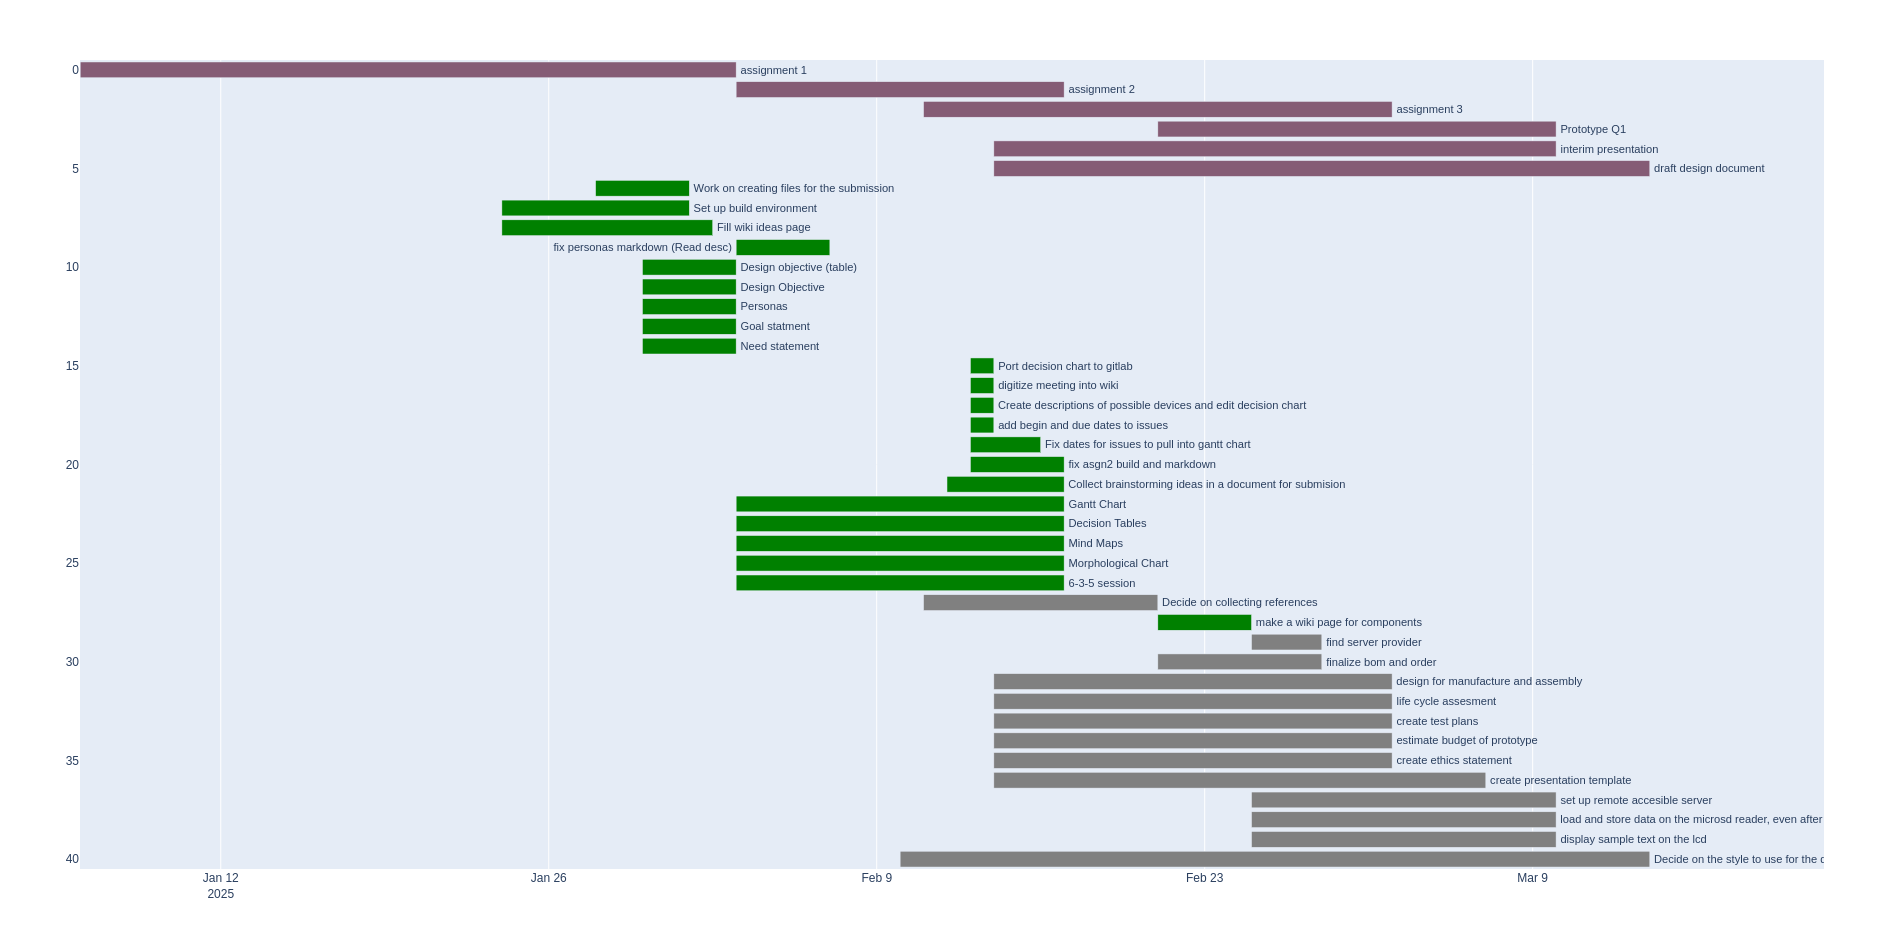
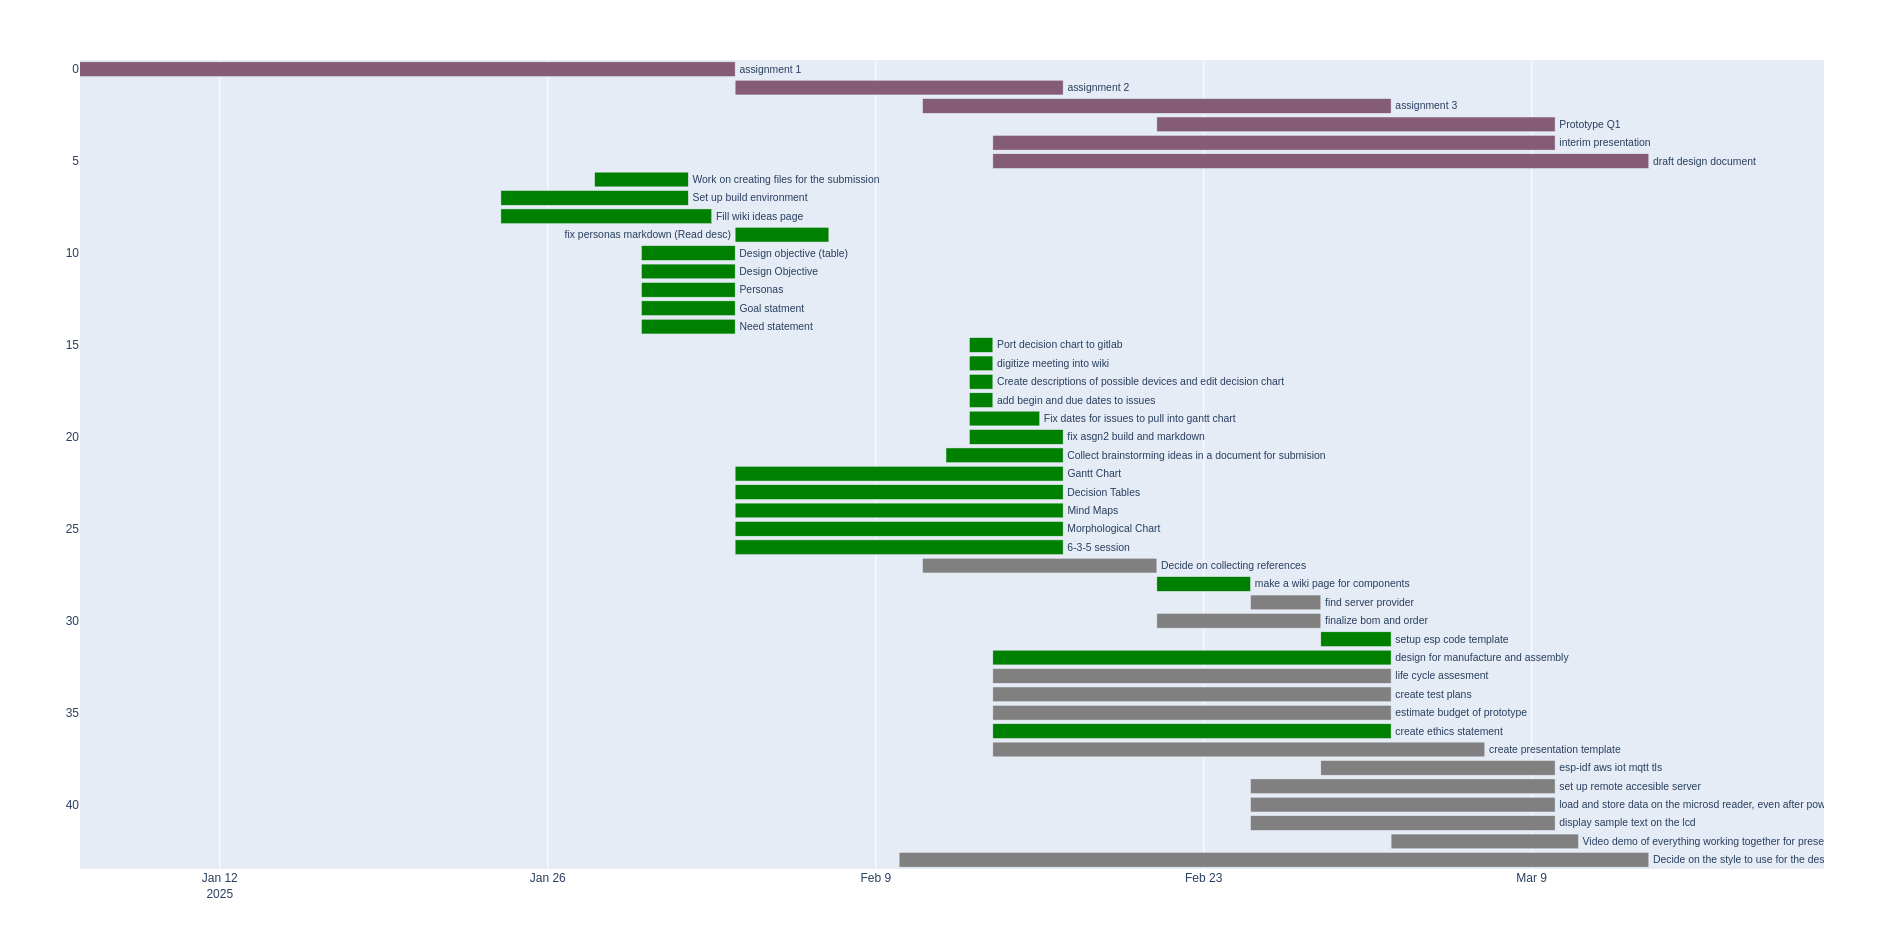
modified assignment 3 and budget

diff --git a/doc/common/prototype_budget.md b/doc/common/prototype_budget.md
@@ -1,3 +1,9 @@
+The parts for the protorype were obtained from Digikey and Amazon. 
+The cost for shipping form Amazon.com is assumed to be the prime member price.
+The total price comes out to be 
+42.66 (parts) + 6.99 (shipping) + 2.29 (tariff) + 4.29 (tax) = 56.23
+based on the information gathered from the chart below.
+
 | Product Name     | Quantity | Shipping time | Shipping Price | Tariff/Duty | Price | Website/Datasheet                                 |
 |------------------|----------|---------------|----------------|-------------|-------|---------------------------------------------------|
 | microSD breakout | 1        | ~6 days       | 0              | 0           | 2.99  | [Amazon](https://www.amazon.com//dp/B08C4WY2WR)   |

diff --git a/doc/asgn3/assignment_3.md b/doc/asgn3/assignment_3.md
@@ -45,5 +45,6 @@ We updated the design objectives as follows:
 ../common/design_objective.md
 ```
 ### Changes to assignment 2
+The gantt chart was updated with new issues added since assignment 2.
 
-
+![The updated gantt chart](../common/gantt.png)
